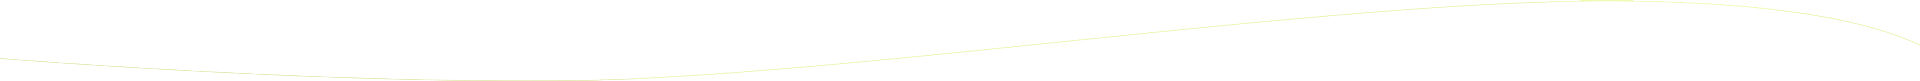
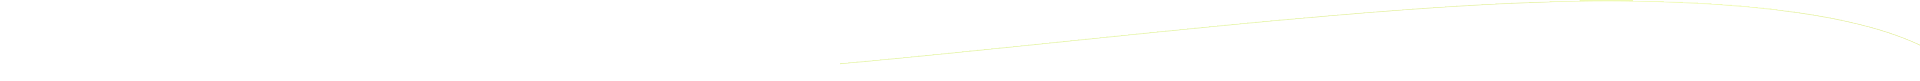
before pull

diff --git a/src/scss/components/sections/_present-section.scss b/src/scss/components/sections/_present-section.scss
@@ -74,6 +74,7 @@
         }
     }
     &:before {
+      @include media('<widescreen') {
         position: absolute;
         bottom: 100%;
         left: 0;
@@ -84,7 +85,18 @@
         background-size: 100% auto;
         background-position: 50% 100%;
         background-repeat: no-repeat;
-        z-index: 0;
+        z-index:101;
+        @include media('<desktop') {width: 115%;
+          background-position: 100% 100%;
+          right: 0;
+          left: auto;
+        }
+        @include media('<tablet') {
+          width: 146%;
+          margin-left: 50%;
+          background-image: url('../images/home-banner-decoration-resp.png');
+        }
+      }
     }
     .chicken-photo-holder {
         position: absolute;
